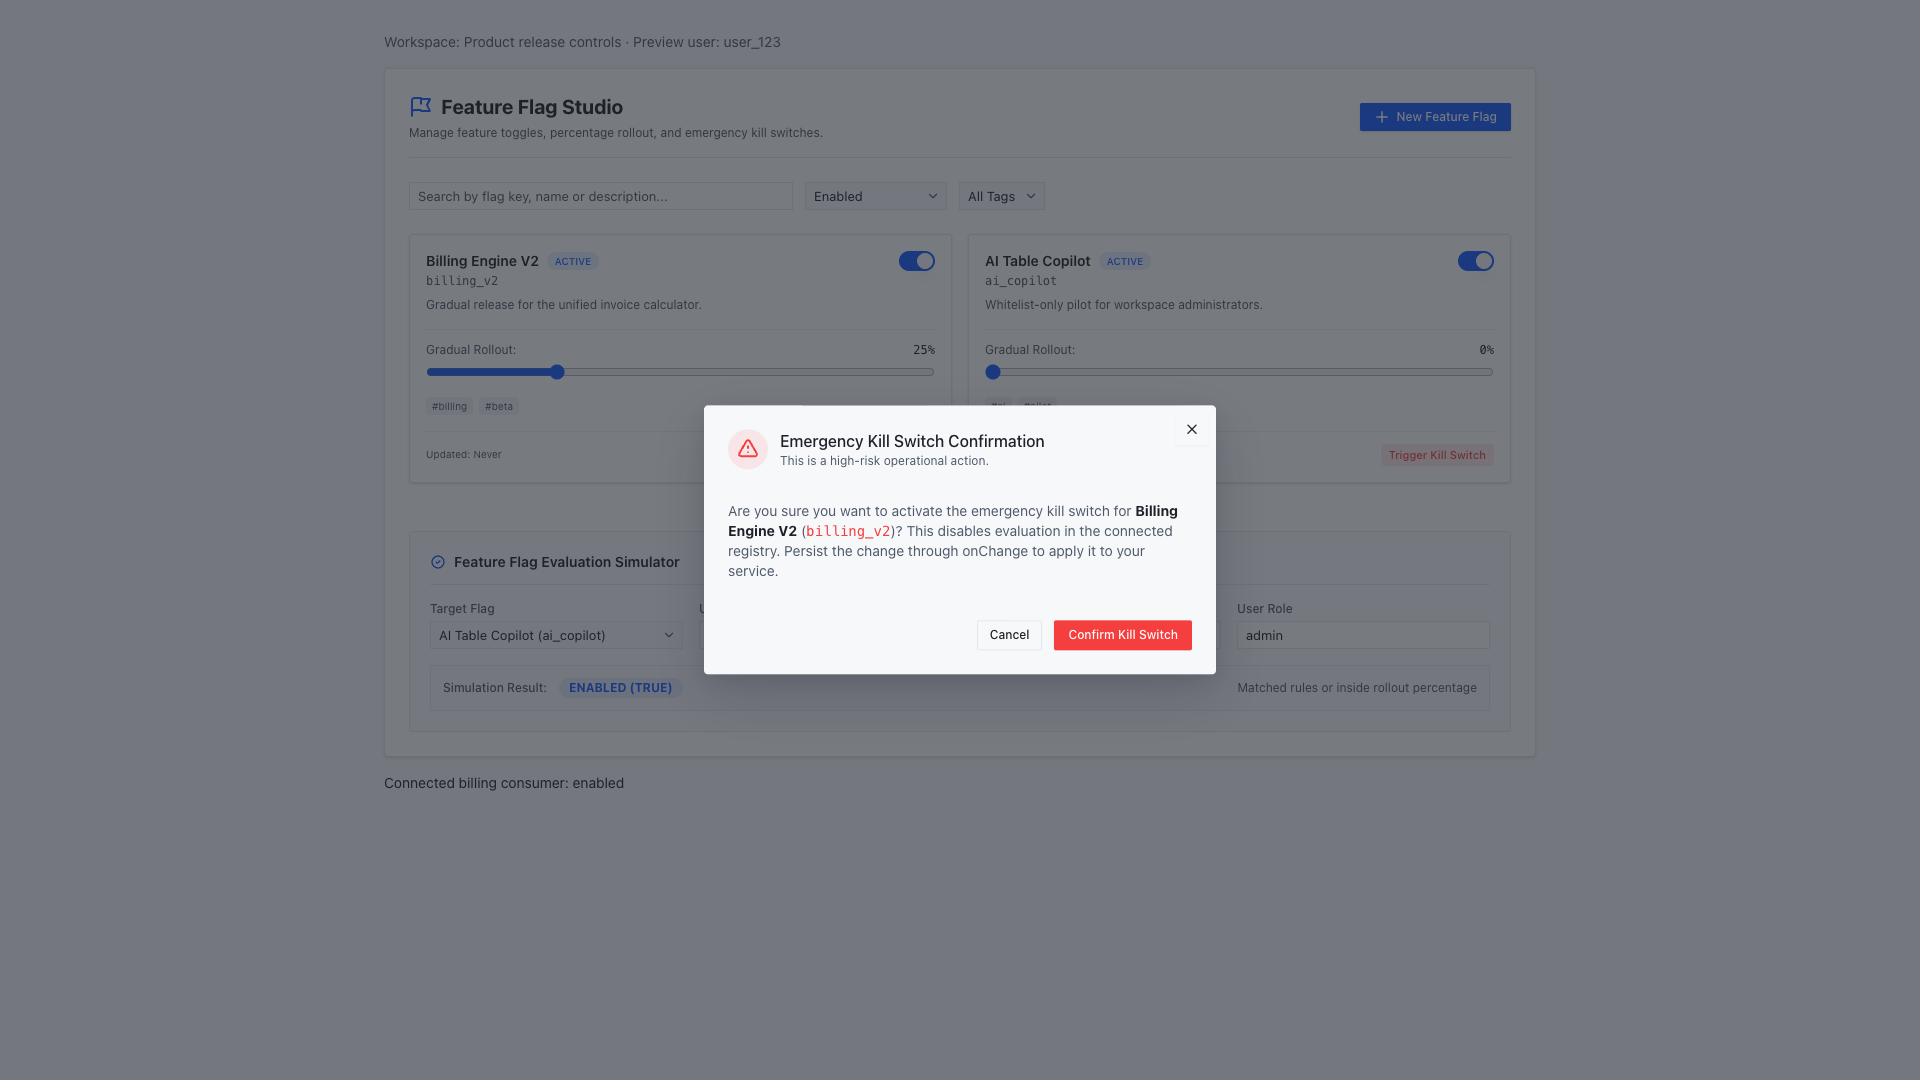
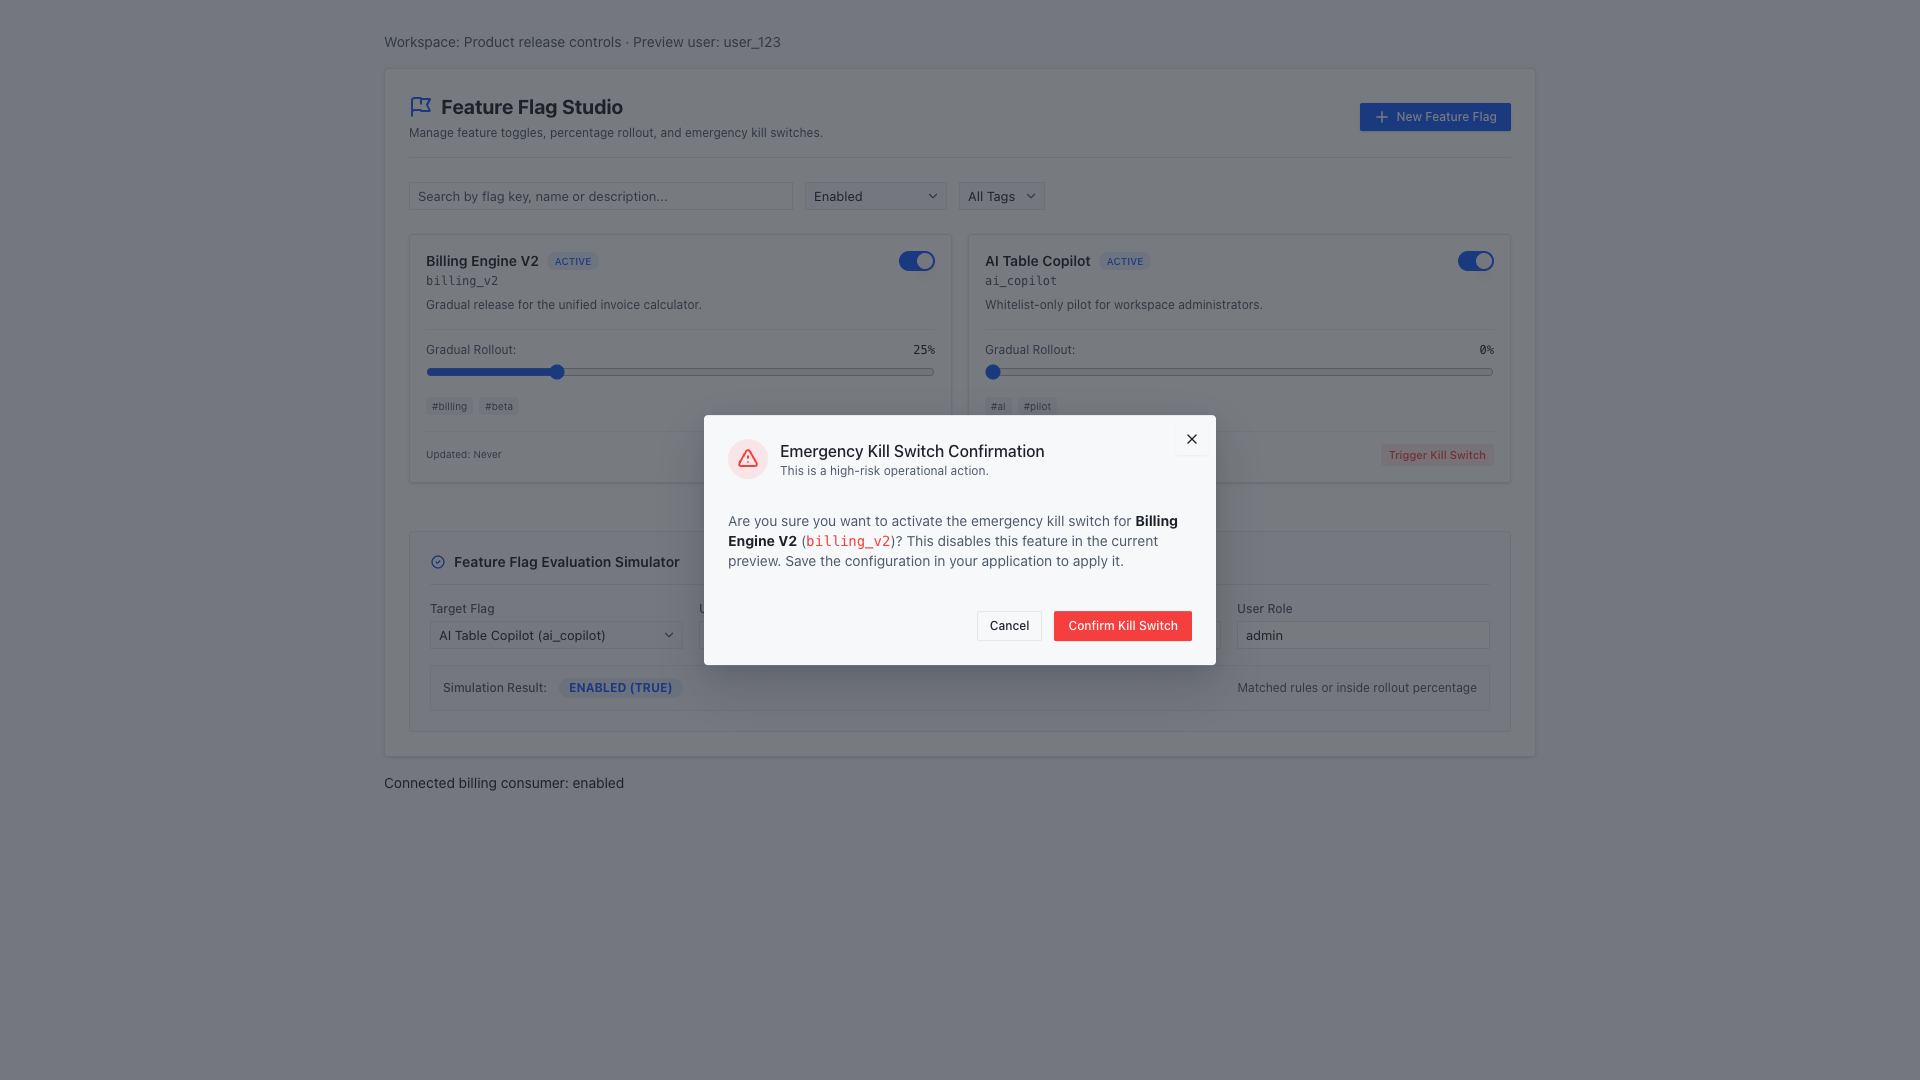
docs(ui): clarify feature flag preview confirmation

Changed region(s): [[0.375, 0.3667, 0.625, 0.55], [0.375, 0.55, 0.625, 0.6417]]

diff --git a/packages/ui/src/components/FeatureFlagStudio.svelte b/packages/ui/src/components/FeatureFlagStudio.svelte
@@ -465,7 +465,7 @@
         </div>
         <Dialog.Description class="mt-4">
           Are you sure you want to activate the emergency kill switch for <strong class="text-foreground">{killSwitchTarget.name}</strong> (<code class="text-destructive">{killSwitchTarget.key}</code>)?
-          This disables evaluation in the connected registry. Persist the change through onChange to apply it to your service.
+          This disables this feature in the current preview. Save the configuration in your application to apply it.
         </Dialog.Description>
         <div class="mt-6 flex justify-end gap-3">
           <button
